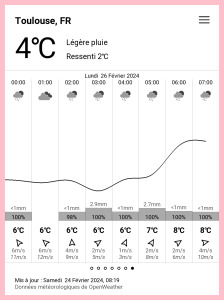
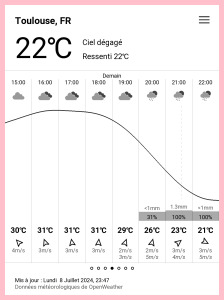
Fix sunrise or sunset lines overlapping precipitation histogram
Refs: #93

diff --git a/src/hourlyforecastbox.cc b/src/hourlyforecastbox.cc
@@ -58,9 +58,15 @@ HourlyForecastBox::HourlyForecastBox(int pos_x, int pos_y, int width,
 void HourlyForecastBox::do_paint() {
   this->draw_labels();
   this->draw_frame_and_values();
-  this->draw_precipitation_histogram();
-  this->draw_temperature_curve();
+
   this->draw_sunrise_sunset_lines();
+  this->draw_precipitation_histogram();
+  // ⚠ Draw sunrise and sunset lines before precipitation histogram
+  // otherwise vertical lines related to sun may overlap the histogram
+  // bars… See also draw_precipitation_histogram() implementation for
+  // more ugly stuff related to that!
+
+  this->draw_temperature_curve();
 }
 
 bool HourlyForecastBox::handle_key_press(int key) {
@@ -370,6 +376,12 @@ void HourlyForecastBox::draw_precipitation_histogram() const {
           max_number(forecast.rain, forecast.snow), false);
       // rain and snow are in mm/h but save space with shortest unit
 
+      FillArea(x_screen + 1,
+               y_screen - tiny_font.get()->height - this->vertical_padding,
+               this->bar_width - 2, tiny_font.get()->height - 1, WHITE);
+      // ⚠ Clear the bottom of a possible vertical line
+      // corresponding to sunrise or sunset
+
       SetFont(tiny_font.get(), DGRAY);
       DrawString(bar_center_x - StringWidth(precipitation_text.c_str()) / 2.0,
                  y_screen - tiny_font.get()->height - 2,
@@ -397,9 +409,8 @@ void HourlyForecastBox::draw_precipitation_histogram() const {
 
 void HourlyForecastBox::draw_sunrise_sunset_lines() const {
   BOOST_LOG_TRIVIAL(debug) << "Drawing sunrise and sunset lines";
-  const auto separator_start_y =
-      this->weather_icon_y + this->icon_size + this->vertical_padding;
-  const auto separator_stop_y = this->temperature_y - vertical_padding;
+  const auto separator_start_y = this->weather_icon_y + this->icon_size;
+  const auto separator_stop_y = this->curve_y_offset;
 
   for (size_t bar_index = 0; bar_index < HourlyForecastBox::visible_bars;
        ++bar_index) {
